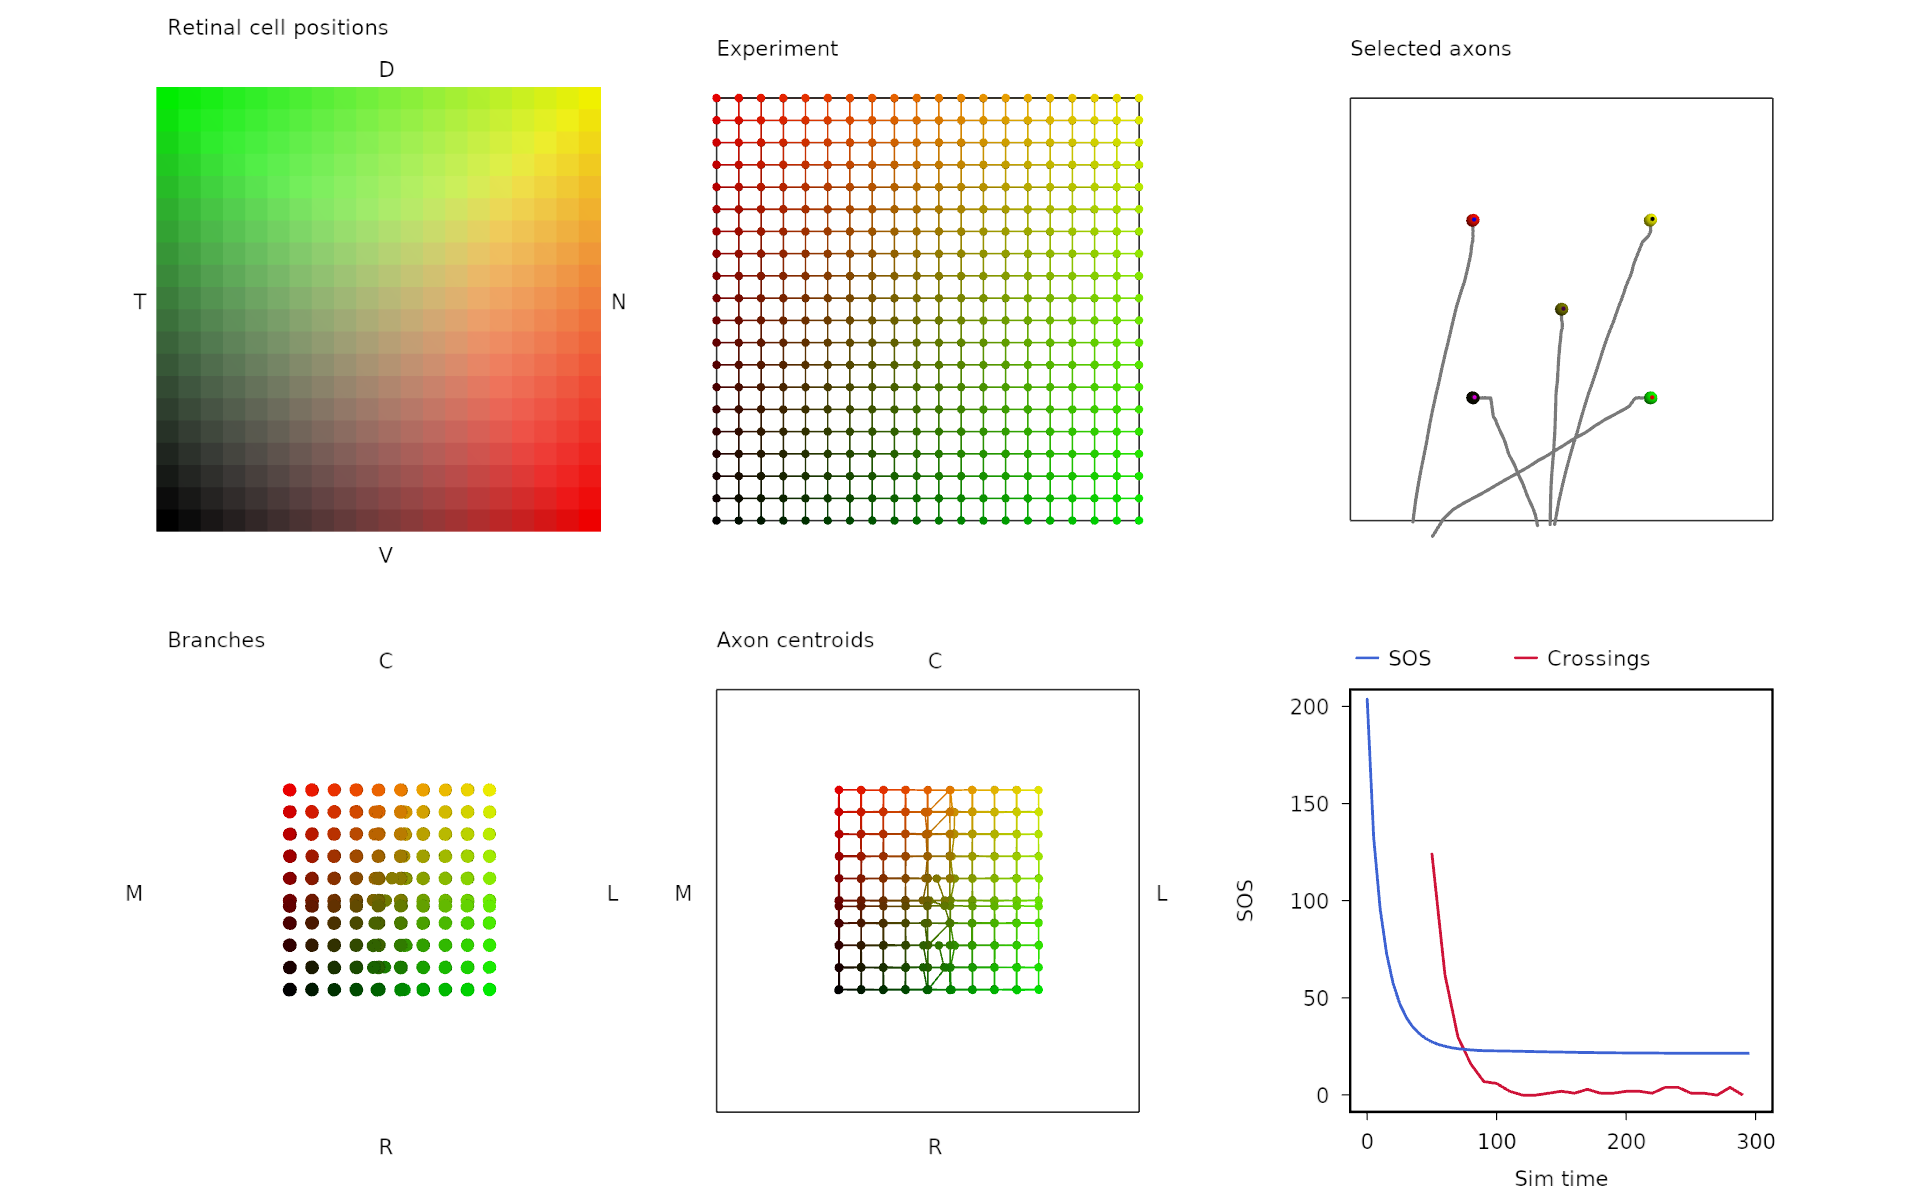
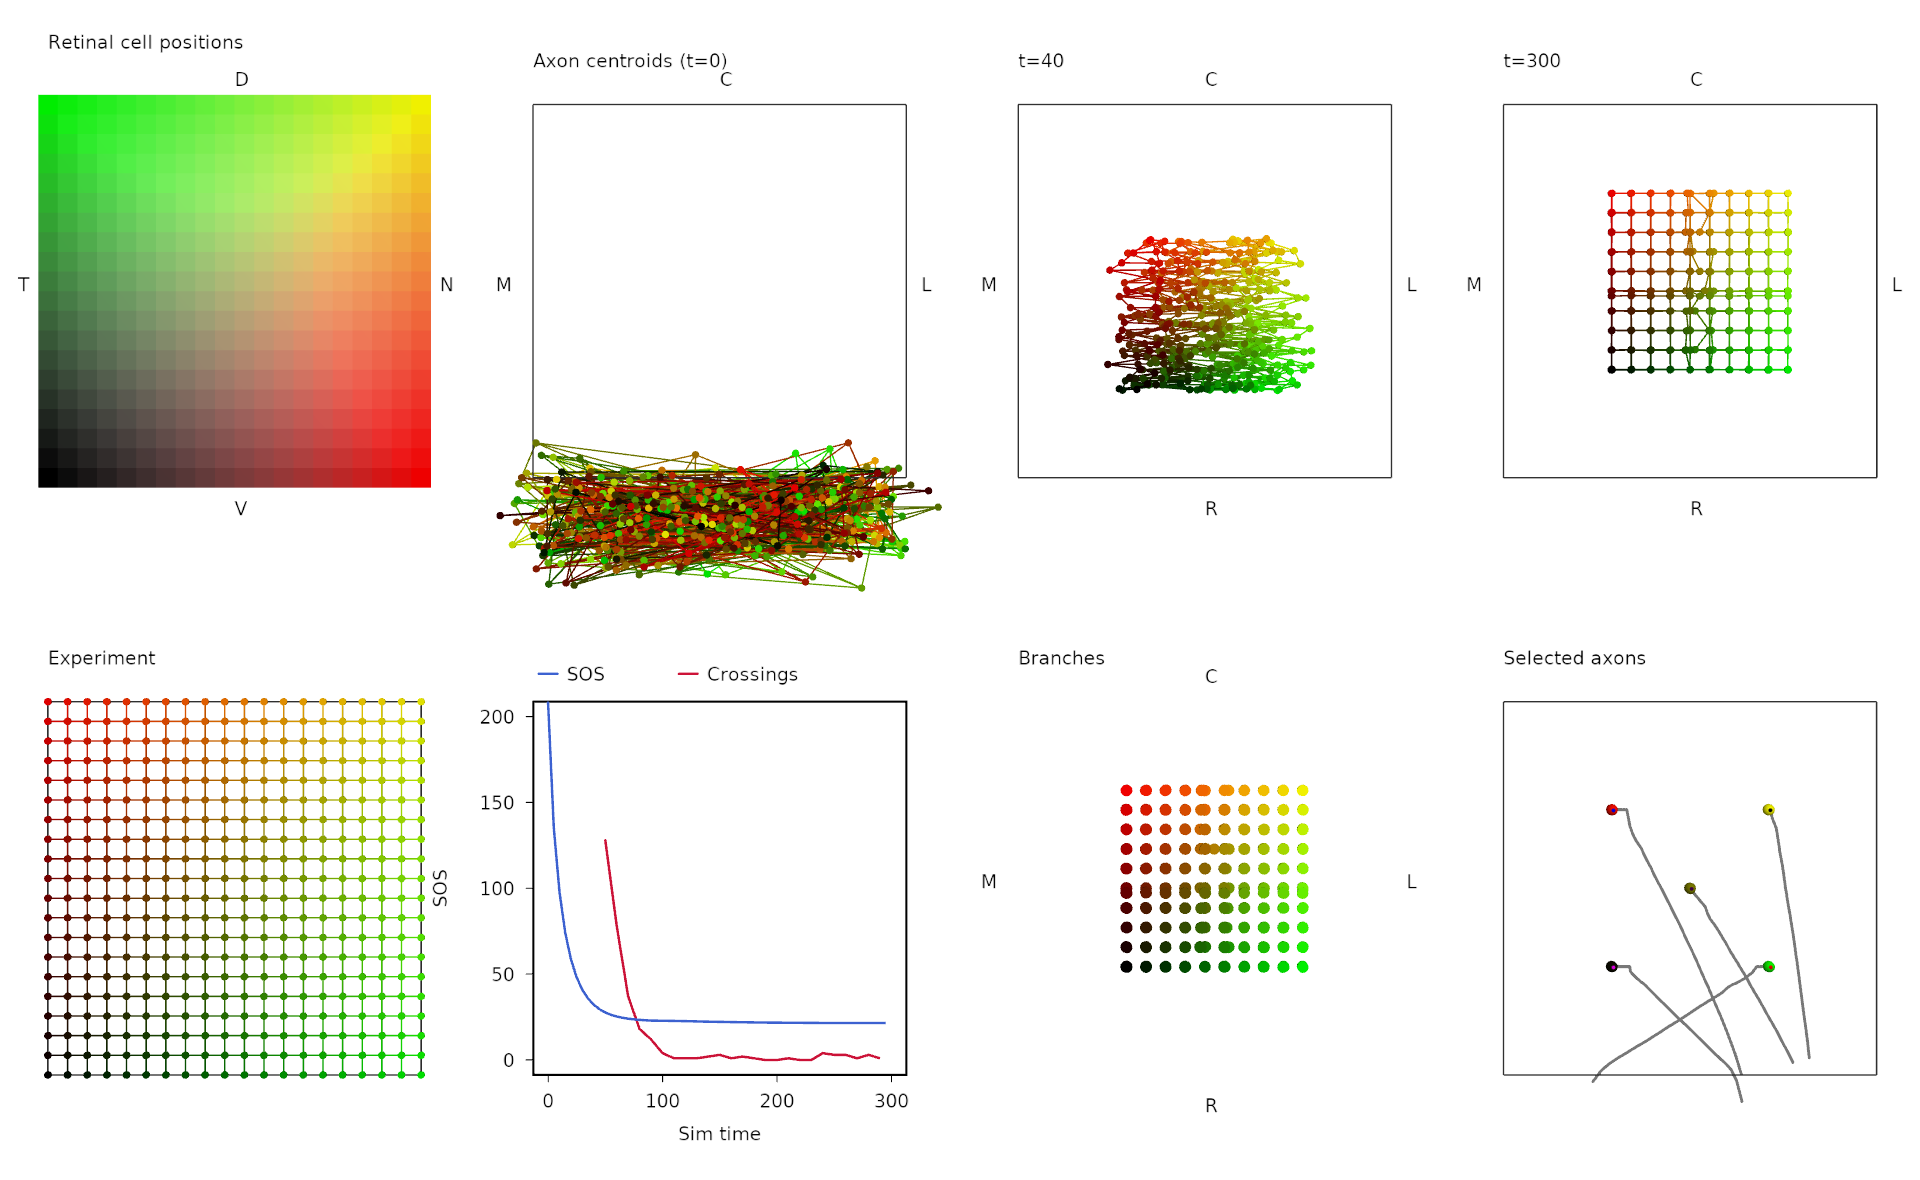
More WIP

diff --git a/paper/paper.tex b/paper/paper.tex
@@ -653,8 +653,9 @@ To enable a simulation of the model described above it is necessary to make
 some assumptions about the nature of the receptor-ligand signalled
 interactions (i.e. the values of $F_i$ that determine whether interactions are
 attractive or repulsive) and about the pattern of ligand expression on the
-tectal surface. Unless stated otherwise, we assumed that \textbf{i)} All
-receptor-ligand signalled interactions are repulsive, as for EphA-ephrinA
+tectal surface. Unless stated otherwise, we assumed that: \textbf{i)} all
+receptor-ligand signalled interactions are repulsive ($F_i=-1, \forall i$), as
+for EphA-ephrinA
 coupling \citep{drescher_vitro_1995,nakamoto_topographically_1996};
 and \textbf{ii)} all tectal ligand expressions vary exponentially along a
 given axis, following Eq.\,\ref{e:tecligexp}.
@@ -664,41 +665,46 @@ $m_5=0.5$. The number of branches per axon was 4 unless otherwise stated.
 
 \section{Results}
 
-% ./build/sim/agent/agent1 configs/simpler/m_ee_G.json  configs/simpler/e_wt_fig1.json
-\begin{figure}
-\includegraphics[width=\linewidth]{./images/j4_ee_G_wt_fig2.png}
-\caption{The pure gradient-following model.}
-\label{f:chemo}
-\end{figure}
-
 The first question we tried to answer was whether chemoaffinity alone,
 implemented as gradient following, is sufficient to pattern the tectum. We set
 $m_1=0.002$ and $m_2=m_3=m_4=0$ and ran the model for 300
-steps. Fig.\,\ref{f:chemo}A indicates the colour code used for retinal cell
-position; dorsal retinal cells are indicated by green, nasal cells by
-red. Lightness gives position along the relevant axis so that cells at the
-dorsal-nasal corner are yellow and those at the ventral-transverse corner are
-black. Fig.\,\ref{f:chemo}B shows the expected layout of retinal ganglion cell
+steps.
+
+Fig.\,\ref{f:ch}A indicates the colour code used for retinal cell position;
+dorsal retinal cells are indicated by green, nasal cells by red. Lightness
+gives position along the relevant axis so that cells at the dorsal-nasal
+corner are yellow and those at the ventral-transverse corner are
+black. Fig.\,\ref{f:ch}E shows the expected layout of retinal ganglion cell
 axons on the tectum. The axons retain the colour of their originating cell on
-the retina, as shown in Fig.\,\ref{f:chemo}A. Nasal cell axons should be
-arranged caudally; dorsal axons laterally; axons should be evenly spaced and
-the pattern should span the entire tectum. Figs.\,\ref{f:chemo}C
-and \ref{f:chemo}D show, respectively, the positions of branches (i.e.~growth
-cones) and axon centroids at $t=300$. Topographic ordering is
-correct. Opposing gradients have sorted the axons along the two axes to form a
-grid of cells. However, the arrangement does not span the full
-tectum. Fig.\,\ref{f:chemo}E shows selected axons (one from the centre and one
-from each corner of the retina) and their position history.
-Fig.\,\ref{f:chemo}F shows two pattern metrics; the sum of squared distance
-errors of the axon centroids and the number of crossings in the 'fish net'
-plot of Fig.\,\ref{f:chemo}D which gives an indication of the disorder in the
-arrangement. The expected number of crossings is 0, as in
-Fig.\,\ref{f:chemo}B.
+the retina, as shown in Fig.\,\ref{f:ch}A. Nasal cell axons should be arranged
+caudally; dorsal axons laterally; axons should be evenly spaced and the
+pattern should span the entire tectum.  Fig.\,\ref{f:ch}B--D show `fish net'
+plots of the centroid of the branches of each axon at three timepoints. In
+these plots, lines are drawn between axons that are expected to arrange
+themselves adjacently to one another. The number of line crossings in this
+plot gives an indication of the disorder in the arrangement. Fig.\,\ref{f:ch}G
+shows the positions of the individual branches (i.e.~growth cones) at $t=300$
+that contribute to the the plot in Fig.\,\ref{f:ch}D. By this time, the
+topological order matches that shown in Fig.\,\ref{f:ch}E. Opposing gradients
+have sorted the axons along the two axes to form a grid of cells. However, the
+arrangement does not span the full tectum. Fig.\,\ref{f:ch}F shows two pattern
+metrics; the sum of squared distance errors of the axon centroids and the
+number of crossings in the fish net plot of Fig.\,\ref{f:ch}D. The expected
+number of crossings is 0, as in Fig.\,\ref{f:ch}E. Fig.\,\ref{f:ch}H shows
+selected axons (one from the centre and one from each corner of the retina)
+and their position history.
+
+% ./build/sim/agent/agent1 configs/simpler/m_ee_G.json configs/simpler/e_wt_fig2.json
+\begin{figure}
+\includegraphics[width=\linewidth]{./images/j4_ee_G_wt_fig2.png}
+\caption{The pure gradient-following model.}
+\label{f:ch}
+\end{figure}
 
 The form of the retinal receptor expression (Eq.\,\ref{e:retrcpt}) is based on
 empirical measurement, but the tectal ligand expression
 (Eq.\,\ref{e:tecligexp}) was chosen arbitrarily. To expand the pattern in
-Fig.\,\ref{f:chemo}D so that it covers the entire tectum, we needed only to
+Fig.\,\ref{f:ch}D so that it covers the entire tectum, we needed only to
 adjust the tectal ligand expression, substituting the alternative exponential
 expression:
 %
@@ -706,19 +712,27 @@ expression:
 L_i^{\text{exp}}(x,y) = 1.05 + 0.26 \exp(1.1 x)
 \end{equation}
 
-% ./build/sim/agent/agent1 configs/simpler/m_eE_G.json  configs/simpler/e_wt_fig3.json
+The result at $t=300$ is shown in Fig.\,\ref{f:chalt}A and B. The axon
+centroids are arranged across the full tectal surface.  The arrangement is
+slightly disordered around the middle of the tectum. This is caused by
+numerical artefacts from the discretization of the ligand expression and the
+fact that in the centre, the difference between the opposing receptor-ligand
+signals is very small.  Fig .\,\ref{f:chalt}C shows the error metric, which is
+closer to 0 with the new ligand expression.
+
+% ./build/sim/agent/agent1 configs/simpler/m_eE_G.json  configs/simpler/e_wt_fig2.json
 \begin{figure}
 \includegraphics[width=\linewidth]{./images/j4_eE_G_wt_fig3.png}
 \caption{The pure gradient-following model (alt exponential).}
-\label{f:chemo}
+\label{f:chalt}
 \end{figure}
 
 
-\begin{figure}
-\includegraphics[width=\linewidth]{./images/j4_eE_GJ_wt_fig.png}
-\caption{Gradient following model with axon-axon interactions.}
-\label{f:wt}
-\end{figure}
+%\begin{figure}
+%\includegraphics[width=\linewidth]{./images/j4_eE_GJ_wt_fig.png}
+%\caption{Gradient following model with axon-axon interactions.}
+%\label{f:wt}
+%\end{figure}
 
 \subsection*{Normal development}
 
@@ -881,64 +895,13 @@ tectal sheet change logarithmically.}
 
 \subsection*{Is chemoaffinity alone sufficient to explain the retinotectal projection?}
 
-Introductory sentence.
-
-\textbf{FIXME: Find the expression functions for the tectum which give a
-decent WT result. Perhaps I already did this? Experiment with these and
-axon-axon with smaller radius of interaction.}
-
-We now describe the behaviour of a model which has only the gradient-based
-chemoaffinity effect and no axon-axon interaction or border effect
-(i.e.~$m_2=m_3=0$). This model was run with $n=8$ branches per RGC axon. All
-receptor-ligand signals induced repulsive interactions (i.e.~gradient
-descent). Receptor and ligand expressions were as shown in Fig.\,\ref{f:ex},
-noting that tectal ligand expression was of exponential form
-(Eq.\,\ref{e:tecligexp}). Fig.\,\ref{f:ch}A gives a colour map of retinal
-ganglion cell soma locations, with the colour red encoding $x$ position on the
-temporal-nasal axis (with red signifying nasal positions). Green encodes $y$
-position on the dorso-ventral axis.
-%
-Fig.\,\ref{f:ch}B shows the expected final location of each RGC axon,
-according to experimental observations, in a `fishnet' plot which draws lines
-between adjacent axons giving a visual indication of the topology of the
-arrangement.
-%
-Fig.\,\ref{f:ch}C shows the position of
-400 branches at $t=500$ (in arbitrary time units). Considering each
-coordinate axis separately, each branch interacts differentially with two
-opposing gradients. Branches which settle nearest the rostral edge of the
-tectum interact more strongly with the gradient $L_0$ than with $L_2$
-(Fig\,\ref{f:ex}C). A similar pair of gradients separate branches along the
-M-L tectal axis. The branches become positioned on a grid due to the
-discretization of the tectal ligand gradient (as the number of branches and
-tectal elements tends towards infinity, the arangement tends towards a
-continuous map---see Fig.\,S1 \textbf{FIXME}).
-
-\begin{figure}
-\includegraphics[width=\linewidth]{./images/j4_ee_chemoonly_wt_chemoonly.png}
-\caption{Chemoaffinity model}
-\label{f:ch}
-\end{figure}
-
-Fig.\,\ref{f:ch}D shows a fishnet plot of the RGC axon centroids; the mean
-location of $n$ branches per axon. Because all $n$ branches for each RGC have
-identical receptor expression and they experience only the chemoaffinity
-effect, each branch attains almost the same final position and so the centroid
-graph strongly resembles Fig.\,\ref{f:ch}B. Fig.\,\ref{f:ch}D indicates that
-the topology of the arrangement resembles that of the experimental result, but
-the area over which the branches arrange themselves is limited to about 50\%
-of the tectum. It is possible to tailor the tectal ligand expression, whcih
-adjusts the relative contributions of the opposing interactions, to tune the
-final map. This allows the chemoaffinity model to attain a good match to the
-experimental arrangement (Fig.\~S2 \textbf{fixme}). However, the match is
-highly dependent on the form of receptor/ligand expression in both retinal and
-tectal cells.
+This section now at start of results
 
 \begin{figure}
 \includegraphics[width=\linewidth]{./images/fig_chemo_manipulations.png}
 \caption{Surgical manipulations in the chemoaffinity-only model. Row A: wildtype. Row B: 90 degree
 rotation. Row C: 180 degree rotation. Row D: Graft swap}
-\label{f:chemosurg}
+\label{f:chsurg}
 \end{figure}
 
 \subsection*{Grating simulations}

diff --git a/misc/exps_logs_used.m b/misc/exps_logs_used.m
@@ -4,7 +4,7 @@
 x = [0:0.05:1];
 
 _exp = 0.26 .* exp (2.3.*x) + 1.05;
-_exp2 = 0.26 .* exp (1.2.*x) + 1.05;
+_exp2 = 0.26 .* exp (1.1.*x) + 1.05;
 _log = 2.32 + 1.29 .* log (2.3 .* (x+0.2));
 _quad = 1.31 + 2.333 .* x .* x;
 _lin = 1.31 + 2.333 .* x;
@@ -60,6 +60,14 @@ hold on;
 plot (x, flip(_exp)); % ligands
 plot (x, _exp .* flip(_exp));
 lg = legend (['rcpt';'lgnd';'rcpt*lgnd interaction'],'Location','North');
+
+% with alt exp
+figure(14); clf;
+plot (x, _exp); % exp for receptors on retina
+hold on;
+plot (x, _exp2); % exp2 for ligands
+plot (x, _exp .* _exp2);
+lg = legend (['rcpt';'tec lgnd';'rcpt*lgnd interaction'],'Location','North');
 
 % The I effect (relative)
 figure(5); clf;

diff --git a/sim/agent/agent1.h b/sim/agent/agent1.h
@@ -1154,12 +1154,12 @@ struct Agent1
     // Set up the simulation visualisation scene. This depends on whether this->layout
     // is graph_layout::a, ::b or ::c, etc.
     //
-    // a: 2x3
-    // b: 1x4 (or 1x3?)
-    // c:
-    // d:
-    // e:
-    // f:
+    // 0 a: 2x3
+    // 1 b: 1x4 (or 1x3?)
+    // 2 c: 2x4 layout with staggered time "snapshots"
+    // 3 d: 2x3 like standard but with final DV-NT graph for e.g. Reber result
+    // 4 e: 1x3 Branches, centroids and the DV-NT graph
+    // 5 f: 1x1 with inset (just centroids and expt inset)
     void visinit()
     {
         // morph::Visual init
